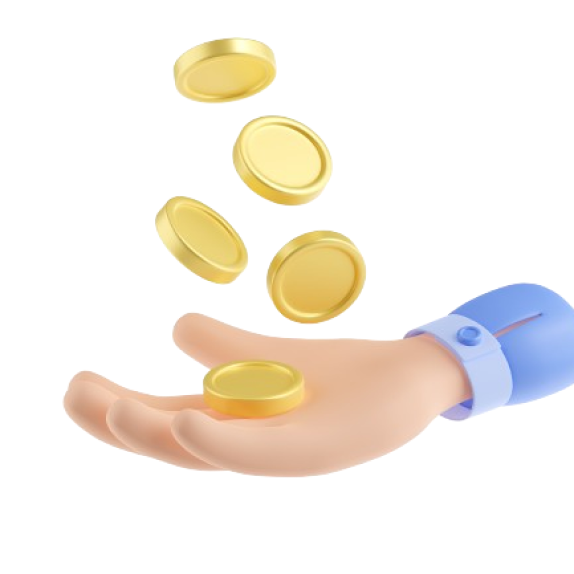
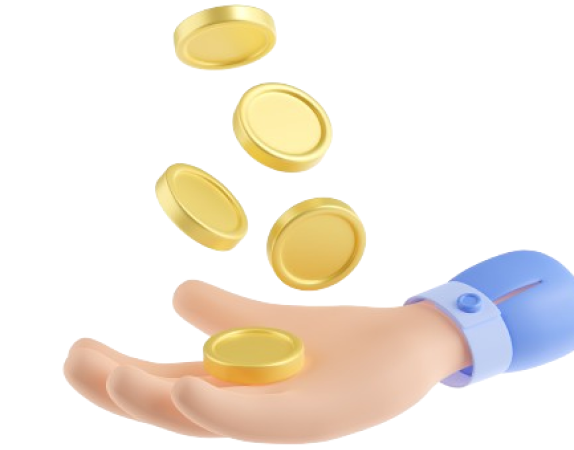
feat (page): implement tip screen

diff --git a/src/pages/main/Tip/index.tsx b/src/pages/main/Tip/index.tsx
@@ -1,43 +1,65 @@
 import * as React from "react";
-import { Text, View, Image } from "react-native";
+import {
+  Text,
+  View,
+  Image,
+  TouchableWithoutFeedback,
+  Keyboard,
+  ScrollView,
+} from "react-native";
 import { Button } from "react-native-paper";
 import { Icon, MD3Colors, TextInput } from "react-native-paper";
 
 import * as theme from "./../../../themes";
 import style from "./style";
+import InputTip from "../../../components/InputTip";
+
+const image = require("./../../../assets/hand-coins.png");
 
 export default function Tip() {
-  const [text, setText] = React.useState("");
+  const [tip, setTip] = React.useState(0);
 
   return (
-    <View style={[style.container]}>
-      <View style={theme.style.header}>
-        <Text style={theme.style.headerTitle}>
-          Parabéns! Você atingiu sua meta! :)
-        </Text>
-      </View>
-      <View style={theme.style.bodyContainer}>
-        <Image
-          style={theme.style.image}
-          source={require("./../../../assets/hand-coins.png")}
-        />
-        <Text>Gostaria de deixar uma gorjeta para o app?</Text>
-        <Text>
-          Suar gorjeta nos ajuda a manter o Meu Porquinho funcionando :)
-        </Text>
-
-        <View>
-          <Icon source="camera" color={MD3Colors.error50} size={20} />
-          <TextInput
-            label="R$"
-            value={text}
-            onChangeText={(text) => setText(text)}
-          />
+    <TouchableWithoutFeedback
+      touchSoundDisabled
+      onPress={() => Keyboard.dismiss()}
+    >
+      <ScrollView contentContainerStyle={[theme.style.bodyViewContainer]}>
+        <View style={theme.style.header}>
+          <Text style={theme.style.headerTitle}>
+            Parabéns! Você Atingiu Sua Meta!
+          </Text>
+          <Text style={theme.style.headerTitle}>:)</Text>
         </View>
-        <Button mode="contained" onPress={() => console.log("Deixar gorjeta")}>
-          Deixar Gorjeta
-        </Button>
-      </View>
-    </View>
+        <View style={theme.style.bodyContainer}>
+          <Image style={theme.style.image} source={image} />
+          <Text style={style.title}>
+            Gostaria De Deixar Uma Gorjeta Para O App?
+          </Text>
+          <Text style={style.subtitle}>
+            Suar gorjeta nos ajuda a manter o Meu Porquinho funcionando :)
+          </Text>
+
+          <View style={style.actionContainer}>
+            <InputTip
+              placeholder="R$ 150,00"
+              defaultValue={tip}
+              onChangeText={(value: number) => setTip(value)}
+            />
+            <Button
+              mode="contained"
+              textColor={theme.colors.lightGreen}
+              buttonColor={theme.colors.darkGreen}
+              style={theme.style.ternaryButton}
+              labelStyle={theme.style.ternaryButtonLabel}
+              contentStyle={theme.style.ternaryButtonContainer}
+              onPress={() => console.log(tip)}
+            >
+              Deixar Gorjeta
+            </Button>
+          </View>
+        </View>
+      </ScrollView>
+    </TouchableWithoutFeedback>
   );
 }

diff --git a/src/themes/style.tsx b/src/themes/style.tsx
@@ -10,7 +10,7 @@ export default StyleSheet.create({
     padding: 40,
   },
   title: {
-    color: "#00D09E",
+    color: defaultColors.mainGreen,
     fontSize: 60,
     fontWeight: "700",
     textAlign: "center",
@@ -19,20 +19,37 @@ export default StyleSheet.create({
     display: "flex",
     alignItems: "center",
     justifyContent: "center",
-    height: 200,
+    height: 180,
+    width: 300,
   },
-  headerTitle: {},
+  headerTitle: {
+    color: defaultColors.letersAndIcons,
+    fontWeight: "700",
+    fontSize: 30,
+    textAlign: "center",
+  },
+  bodyViewContainer: {
+    flex: 1,
+    alignItems: "center",
+    backgroundColor: defaultColors.mainGreen,
+  },
   bodyContainer: {
     backgroundColor: "#fff",
+    gap: 8,
     display: "flex",
     flex: 1,
-    borderTopStartRadius: 80,
-    borderTopEndRadius: 80,
-    padding: 40,
+    justifyContent: "space-evenly",
+    alignItems: "center",
+    width: "100%",
+    paddingBottom: 20,
+    borderTopStartRadius: 70,
+    borderTopEndRadius: 70,
+    paddingHorizontal: 40,
+    paddingVertical: 10,
   },
   image: {
-    width: 300,
-    height: 300,
+    width: 280,
+    height: 280,
     resizeMode: "contain",
     display: "flex",
     marginHorizontal: "auto",
@@ -75,14 +92,12 @@ export default StyleSheet.create({
     borderRadius: 45,
   },
   ternaryButtonContainer: {
-    height: 75,
+    height: 65,
   },
   ternaryButtonLabel: {
     height: 40,
     fontSize: 30,
     fontWeight: "600",
-    textTransform: "uppercase",
-
     paddingTop: 16,
   },
   iconGetOut: {

diff --git a/src/pages/main/Tip/style.tsx b/src/pages/main/Tip/style.tsx
@@ -1,8 +1,27 @@
 import { StyleSheet } from "react-native";
+import { colors } from "../../../themes";
 
 export default StyleSheet.create({
-  container: {
-    flex: 1,
-    backgroundColor: "#00D09E",
+  title: {
+    color: colors.letersAndIcons,
+    fontWeight: "700",
+    fontSize: 30,
+    width: 250,
+    height: 90,
+    textAlign: "justify",
+    paddingVertical: 4,
+    lineHeight: 28,
+  },
+  subtitle: {
+    color: colors.letersAndIcons,
+    fontWeight: "600",
+    textAlign: "center",
+    fontSize: 14,
+    width: 250,
+  },
+  actionContainer: {
+    width: "100%",
+    gap: 18,
+    paddingTop: 10,
   },
 });

diff --git a/src/routes/index.tsx b/src/routes/index.tsx
@@ -20,10 +20,10 @@ const Stack = createNativeStackNavigator();
 export default function Routes() {
   return (
     <Stack.Navigator screenOptions={{ headerShown: false }}>
+      <Stack.Screen name="Tip" component={Tip} />
       <Stack.Screen name="Welcome" component={Welcome} />
       <Stack.Screen name="Login" component={Login} />
 
-      <Stack.Screen name="Tip" component={Tip} />
       <Stack.Screen name="AdminHome" component={AdminHome} />
       <Stack.Screen name="AdminWithdraw" component={AdminWithdraw} />
       <Stack.Screen name="UserHome" component={UserHome} />

diff --git a/App.tsx b/App.tsx
@@ -10,10 +10,10 @@ export default function App() {
   return (
     <NavigationContainer>
       <PaperProvider theme={theme}>
-        <StatusBar style="auto" />
-        {/* <SafeAreaView style={{ flex: 1 }}> */}
-        <Routes />
-        {/* </SafeAreaView> */}
+        <StatusBar style="auto" backgroundColor={theme.colors?.primary} />
+        <SafeAreaView style={{ flex: 1 }}>
+          <Routes />
+        </SafeAreaView>
       </PaperProvider>
     </NavigationContainer>
   );

diff --git a/src/components/InputTip/index.tsx b/src/components/InputTip/index.tsx
@@ -20,7 +20,6 @@ export default function InputField(props: any) {
         iconColor={colors.letersAndIcons}
         style={style.icon}
         mode="contained"
-        onPress={() => console.log("Pressed")}
       />
       <TextInput
         mode="outlined"
